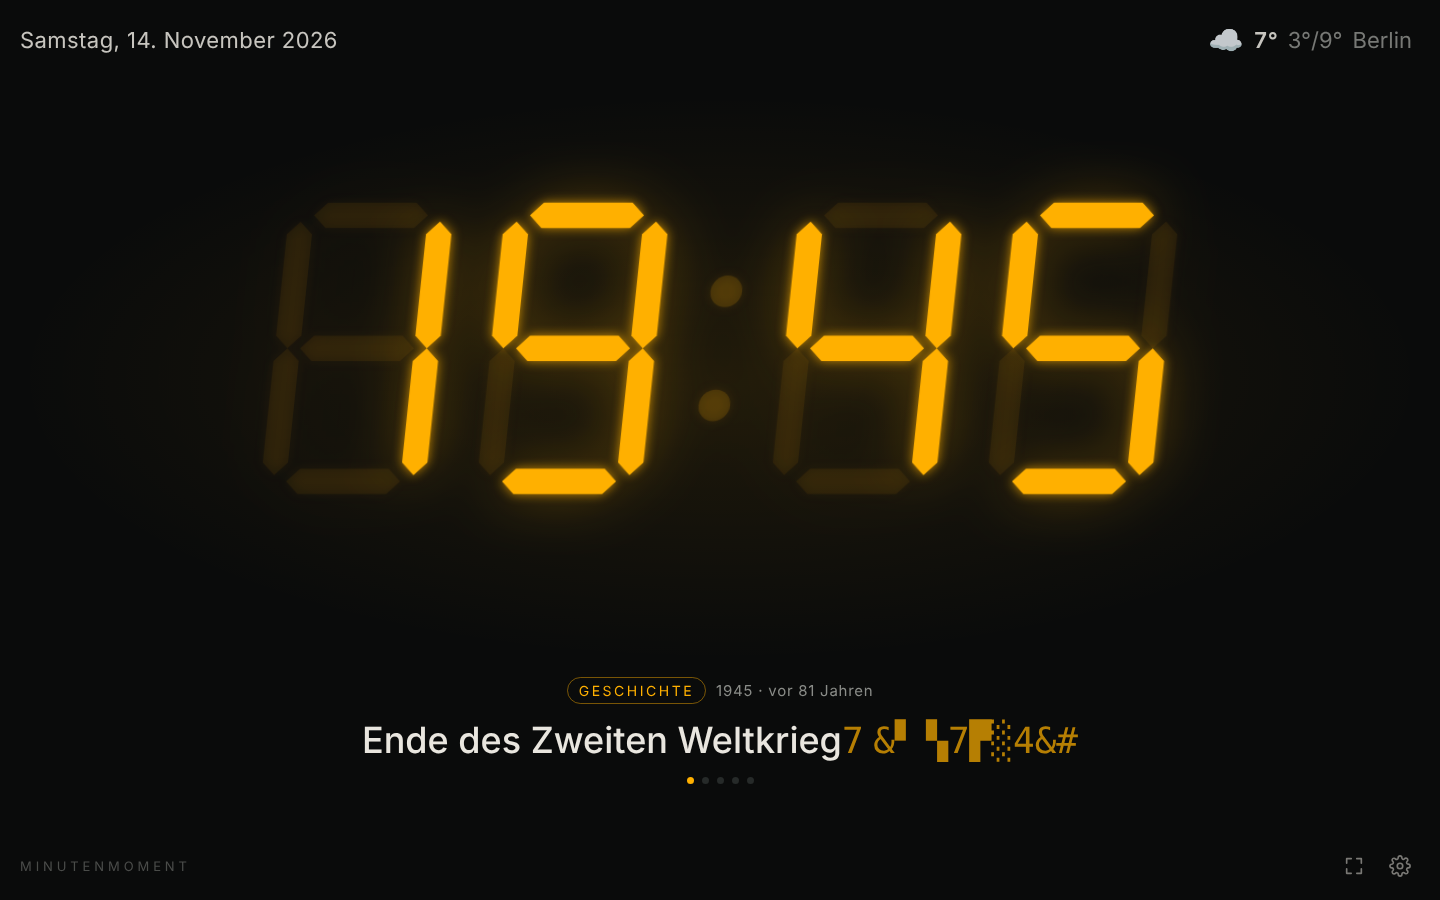
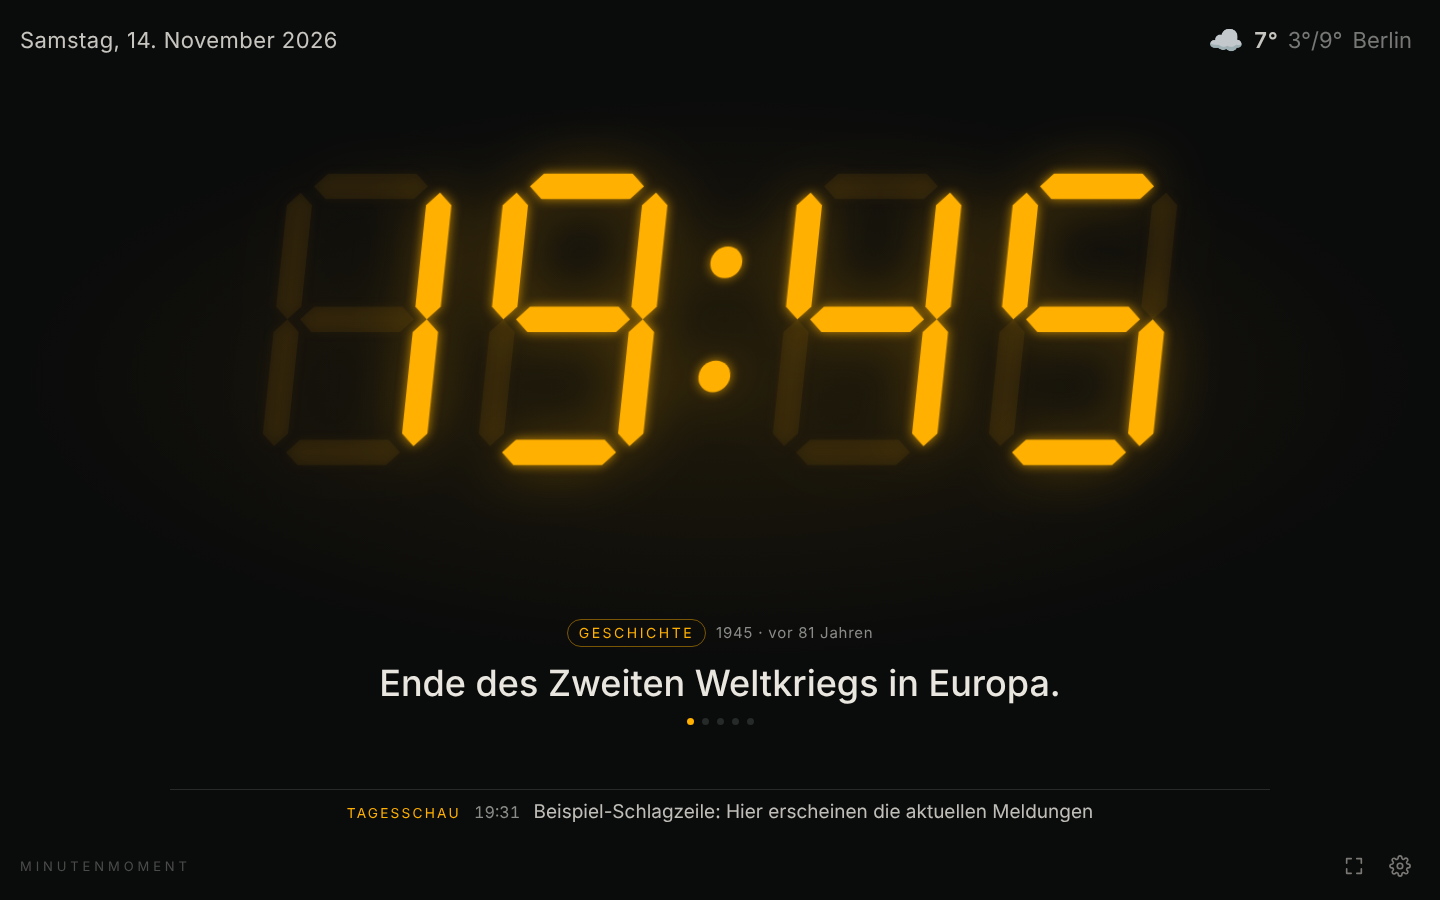
README aktualisiert: Schlagzeilen, Datenbestand, Projektstruktur, neuer Screenshot
Claude-Session: https://claude.ai/code/session_01BaEPvDSq6QzbgJaZswsm8x

diff --git a/README.md b/README.md
@@ -6,65 +6,102 @@
 
 Eine Uhr im LED-Look, die zu jeder Minute des Tages einen Fakt zeigt –
 auf Deutsch: Geschichte, Kalenderdaten, Ereignisse genau zu dieser Uhrzeit, Mathe und Kurioses.
+Dazu auf Wunsch **Datum**, **Wetter** und aktuelle **Schlagzeilen**.
 
-- **19:45** → *Geschichte · 1945 · vor 81 Jahren: Ende des Zweiten Weltkriegs in Europa.*
+![Minutenmoment](docs/screenshot.png)
+
+- **19:45** → *Geschichte · 1945: Ende des Zweiten Weltkriegs in Europa.*
 - **21:17** → *20. Juli 1969, 21:17 Uhr deutscher Zeit: „The Eagle has landed“.*
 - **09:11** → *Kalenderblatt: Am 9. November – Schicksalstag der Deutschen.*
 - **08:15** → *Null-acht-fünfzehn: benannt nach dem MG 08/15.*
 - **17:29** → *1729 – die Taxi-Zahl von Ramanujan.*
 
-![Minutenmoment](docs/screenshot.png)
-
-Dazu optional **Datum** und **Wetter** (Open-Meteo, ohne API-Schlüssel) mit frei wählbarem Ort.
-
 ## Funktionen
 
 | | |
 |---|---|
-| 🕰 **LED-Uhr** | 7-Segment-Anzeige mit Ziffern-Scramble beim Minutenwechsel, 6 Farben |
-| 📜 **Geschichte** | Uhrzeit als Jahreszahl (14:15 → 1415), als Datum (09:11 → 9. November) und Ereignisse, die genau zu dieser Uhrzeit geschahen |
+| 🕰 **LED-Uhr** | 7-Segment-Anzeige mit Ziffern-Scramble beim Minutenwechsel, 6 Farben, optional Sekunden |
+| 📜 **Geschichte** | Uhrzeit als Jahreszahl (14:15 → 1415), als Datum (09:11 → 9. November) und Ereignisse, die genau zu dieser Uhrzeit geschahen – mit „vor X Jahren“ |
 | 🔢 **Mathe** | Primzahlen, Quadrat-/Kubikzahlen, Fibonacci, Palindrome, versteckte Rechnungen, Ziffernfolgen in π, e, √2 und φ |
 | ☎ **Kurioses** | Ortsvorwahlen (02:21 → Köln), Notrufnummern, bekannte Zahlen |
-| 📅 **Datum** | z. B. „Samstag, 14. November 2026“ – abschaltbar |
-| 🌤 **Wetter** | aktuelle Temperatur, Tageshöchst-/-tiefstwert, Ort per Suche oder Standort – abschaltbar |
-| 📰 **Schlagzeilen** | aktuelle Meldungen von tagesschau, Deutschlandfunk, SPIEGEL, ZEIT ONLINE oder heise – wählbar, verlinkt, abschaltbar |
-| ⭐ **Eigene Momente** | Geburtstage & Jahrestage; erscheinen zur passenden Uhrzeit (nur lokal im Browser gespeichert) |
+| 📅 **Datum** | z. B. „Samstag, 14. November 2026“ |
+| 🌤 **Wetter** | aktuelle Temperatur, Tageshöchst-/-tiefstwert; Ort per Suche oder Standort, °C/°F ([Open-Meteo](https://open-meteo.com/), ohne API-Schlüssel) |
+| 📰 **Schlagzeilen** | tagesschau, Deutschlandfunk, SPIEGEL, ZEIT ONLINE, heise online oder alle gemischt – wechseln alle 9 s, Klick öffnet den Artikel |
+| ⭐ **Eigene Momente** | Geburtstage & Jahrestage erscheinen zur passenden Uhrzeit, am Tag selbst auch neben dem Datum |
 | 📱 **Wanduhr-Modus** | Vollbild, Bildschirm wach halten, als App installierbar (PWA), offline nutzbar |
 
-Bedienung: Auf den Fakt tippen oder <kbd>→</kbd> = nächster Fakt · <kbd>F</kbd> = Vollbild · <kbd>S</kbd> = Einstellungen
+Datum, Wetter, Schlagzeilen, Sekunden und Faktenwechsel (nie / 10–30 s) lassen sich in den Einstellungen einzeln ein- und ausschalten.
+
+**Bedienung:** Auf den Fakt tippen oder <kbd>→</kbd> = nächster Fakt · <kbd>F</kbd> = Vollbild · <kbd>S</kbd> = Einstellungen
+
+## Datenbestand
+
+| Kategorie | Umfang |
+|---|---|
+| Jahreszahlen (9 n. Chr. bis 2038) | 261 Jahre, 294 Ereignisse |
+| Kalendertage | 76 Tage, 90 Einträge |
+| Ereignisse auf die Minute genau | 26 |
+| Bekannte Zahlen & Vorwahlen | 35 + 39 |
+| Mathe-Fakten | für alle 1.440 Minuten berechnet |
+
+Rund 340 Minuten des Tages haben einen Geschichtsbezug. Nicht jedes Jahr passt auf die Uhr:
+Nur Jahre, deren letzte zwei Ziffern unter 60 liegen, lassen sich als Uhrzeit darstellen – 1989 etwa nicht,
+der Mauerfall erscheint deshalb über das Datum (09:11 → 9. November).
+
+## Projektstruktur
+
+```
+index.html                 Seite
+css/style.css              Gestaltung
+js/app.js                  Uhr, Fakten, Wetter, Schlagzeilen, Einstellungen
+data/facts.json|.js        vorberechnete Fakten (aus tools/generate_facts.py)
+tools/daten.py             kuratierte Geschichtsdaten, Zahlen, Vorwahlen
+tools/generate_facts.py    erzeugt die Fakten-Dateien
+tools/fetch_news.py        holt die Schlagzeilen (läuft in der GitHub Action)
+.github/workflows/pages.yml  veröffentlicht die Seite, alle 30 Minuten neu
+sw.js, manifest.webmanifest  Offline-Cache und App-Installation
+```
 
 ## Fakten erweitern
 
-Alle kuratierten Daten stehen in [`tools/daten.py`](tools/daten.py):
+Neue Einträge in [`tools/daten.py`](tools/daten.py) ergänzen:
 
-- `JAHRE` – Jahreszahl → Ereignisse (nur Jahre, deren letzte zwei Ziffern < 60 sind, passen auf die Uhr)
-- `TAGE` – (Tag, Monat) → Ereignisse (Tage 1–23, da die Stunde den Tag darstellt)
+- `JAHRE` – Jahreszahl → Ereignisse
+- `TAGE` – (Tag, Monat) → Ereignisse (nur Tage 1–23, da die Stunde den Tag darstellt)
 - `UHRZEIT_EREIGNISSE` – Dinge, die genau zu einer Uhrzeit passierten
 - `BEKANNTE_ZAHLEN`, `VORWAHLEN`
 
-Danach neu erzeugen (Python 3, keine Abhängigkeiten):
+Danach neu erzeugen (Python 3, keine Abhängigkeiten) und beide Dateien in `data/` committen:
 
 ```bash
 python3 tools/generate_facts.py
 ```
 
-Das schreibt `data/facts.json` und `data/facts.js` neu (beide mit hochladen!). Mathe-Fakten (Primzahlen, π-Stellen usw.) berechnet das Skript selbst.
+## Schlagzeilen-Quellen
+
+Die Feeds stehen in der Liste `FEEDS` in [`tools/fetch_news.py`](tools/fetch_news.py) und können dort ergänzt werden
+(RSS oder Atom). Die GitHub Action holt sie bei jedem Push und alle 30 Minuten; ein Feed, der nicht antwortet,
+wird übersprungen. Ob alle Quellen liefern, steht im Log des Workflows unter **Actions**.
+
+Voraussetzung: **Settings → Pages → Source: „GitHub Actions“**.
 
 ## Lokal testen
 
-Einfach `index.html` per Doppelklick öffnen – oder mit lokalem Server:
+`index.html` per Doppelklick öffnen – Uhr, Fakten und Wetter funktionieren sofort.
+Schlagzeilen gibt es nur online, weil `data/news.json` erst von der GitHub Action erzeugt wird.
+Wer sie lokal sehen möchte:
 
 ```bash
-python3 -m http.server 8000
-# dann http://localhost:8000 öffnen
+python3 tools/fetch_news.py
+python3 -m http.server 8000   # dann http://localhost:8000 öffnen
 ```
 
 ## Datenschutz
 
 Keine Cookies, kein Tracking. Einstellungen und eigene Momente liegen nur im `localStorage` des Browsers.
 Für das Wetter wird der eingestellte Ort (Koordinaten) an [Open-Meteo](https://open-meteo.com/) übermittelt.
-Schlagzeilen werden nicht vom Browser, sondern alle 30 Minuten von einer GitHub Action
-([`tools/fetch_news.py`](tools/fetch_news.py)) aus den öffentlichen RSS-Feeds geholt und als `data/news.json` mitveröffentlicht.
+Schlagzeilen werden nicht vom Browser, sondern von der GitHub Action aus den öffentlichen RSS-Feeds der
+Redaktionen geholt; angezeigt werden nur Titel, Uhrzeit und Link zum Originalartikel.
 
 ## Inspiration & Lizenz
 
